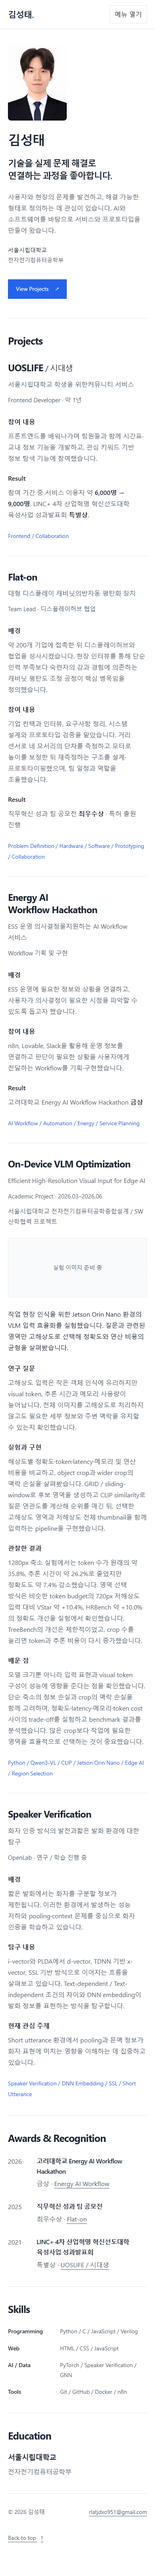
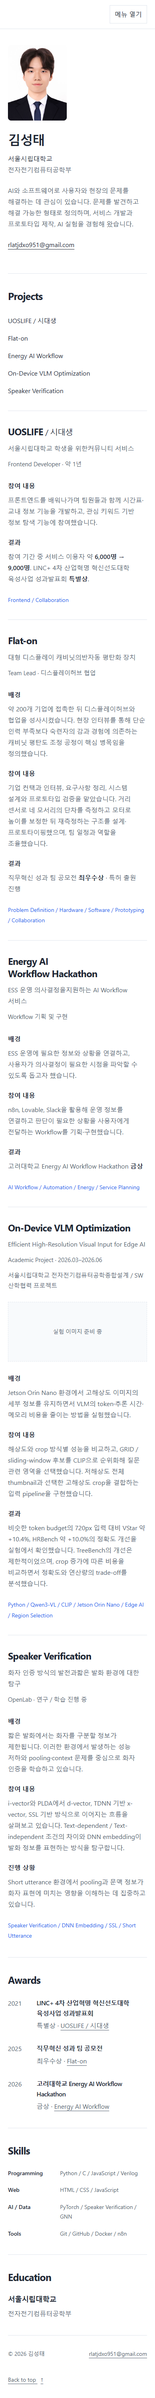
style: simplify introduction and align project summaries with navigation

Changed region(s): [[0.0308, 0.0, 0.9231, 0.9358], [0.0615, 0.9046, 0.3692, 0.9982], [0.8, 0.1872, 0.8308, 0.2184]]

diff --git a/index.html b/index.html
@@ -13,7 +13,6 @@
   <a class="skip-link" href="#main">본문으로 바로가기</a>
   <header class="header">
     <nav class="nav container" aria-label="주요 메뉴">
-      <a class="logo" href="#top" aria-label="김성태, 맨 위로">김성태<span aria-hidden="true">.</span></a>
       <button class="nav-toggle" type="button" aria-expanded="false" aria-controls="nav-menu" hidden>메뉴 열기</button>
       <ul class="nav-list" id="nav-menu">
         <li><a href="#projects">Projects</a></li>
@@ -25,21 +24,27 @@
 
   <main id="main" class="container" tabindex="-1">
     <section class="hero" aria-labelledby="hero-title">
+      <img class="profile-image" src="./images/profile.jpg" alt="김성태 프로필 사진" width="413" height="531" fetchpriority="high" />
       <div class="hero-copy">
         <h1 id="hero-title">김성태</h1>
-        <p class="hero-statement">기술을 실제 문제 해결로<br /> 연결하는 과정을 좋아합니다.</p>
-        <p class="hero-description">사용자와 현장의 문제를 발견하고, 해결 가능한 형태로 정의하는 데 관심이 있습니다. AI와 소프트웨어를 바탕으로 서비스와 프로토타입을 만들어 왔습니다.</p>
         <p class="affiliation">서울시립대학교 <span>전자전기컴퓨터공학부</span></p>
-        <div class="hero-links">
-          <a class="button" href="#projects">View Projects <span aria-hidden="true">↗</span></a>
-        </div>
+        <p class="hero-description">AI와 소프트웨어로 사용자와 현장의 문제를 해결하는 데 관심이 있습니다. 문제를 발견하고 해결 가능한 형태로 정의하며, 서비스 개발과 프로토타입 제작, AI 실험을 경험해 왔습니다.</p>
+        <a class="text-link hero-email" href="mailto:rlatjdxo951@gmail.com">rlatjdxo951@gmail.com</a>
       </div>
-      <img class="profile-image" src="./images/profile.jpg" alt="김성태 프로필 사진" width="413" height="531" fetchpriority="high" />
     </section>
 
     <section class="section" id="projects" aria-labelledby="projects-title" tabindex="-1">
       <h2 id="projects-title">Projects</h2>
-      <article class="project" id="uoslife" aria-labelledby="uoslife-title">
+      <nav class="project-index" aria-label="프로젝트 목차">
+        <ol>
+          <li><a href="#uoslife">UOSLIFE / 시대생</a></li>
+          <li><a href="#flat-on">Flat-on</a></li>
+          <li><a href="#energy-workflow">Energy AI Workflow</a></li>
+          <li><a href="#vlm-optimization">On-Device VLM Optimization</a></li>
+          <li><a href="#speaker-verification">Speaker Verification</a></li>
+        </ol>
+      </nav>
+      <article class="project" id="uoslife" aria-labelledby="uoslife-title" tabindex="-1">
         <header class="project-heading">
           <h3 id="uoslife-title">UOSLIFE <span class="title-secondary">/ 시대생</span></h3>
           <p class="project-summary">서울시립대학교 학생을 위한<br />커뮤니티 서비스</p>
@@ -49,13 +54,13 @@
           <dl class="project-details">
             <dt>참여 내용</dt>
             <dd>프론트엔드를 배워나가며 팀원들과 함께 시간표·교내 정보 기능을 개발하고, 관심 키워드 기반 정보 탐색 기능에 참여했습니다.</dd>
-            <dt>Result</dt>
+            <dt>결과</dt>
             <dd>참여 기간 중 서비스 이용자 약 <strong>6,000명 → 9,000명</strong>. LINC+ 4차 산업혁명 혁신선도대학 육성사업 성과발표회 <strong>특별상</strong>.</dd>
           </dl>
           <p class="keywords" aria-label="핵심 키워드">Frontend / Collaboration</p>
         </div>
       </article>
-      <article class="project" id="flat-on" aria-labelledby="flat-on-title">
+      <article class="project" id="flat-on" aria-labelledby="flat-on-title" tabindex="-1">
         <header class="project-heading">
           <h3 id="flat-on-title">Flat-on</h3>
           <p class="project-summary">대형 디스플레이 캐비닛의<br />반자동 평탄화 장치</p>
@@ -67,13 +72,13 @@
             <dd>약 200개 기업에 접촉한 뒤 디스플레이허브와 협업을 성사시켰습니다. 현장 인터뷰를 통해 단순 인력 부족보다 숙련자의 감과 경험에 의존하는 캐비닛 평탄도 조정 공정이 핵심 병목임을 정의했습니다.</dd>
             <dt>참여 내용</dt>
             <dd>기업 컨택과 인터뷰, 요구사항 정리, 시스템 설계와 프로토타입 검증을 맡았습니다. 거리 센서로 네 모서리의 단차를 측정하고 모터로 높이를 보정한 뒤 재측정하는 구조를 설계·프로토타이핑했으며, 팀 일정과 역할을 조율했습니다.</dd>
-            <dt>Result</dt>
+            <dt>결과</dt>
             <dd>직무혁신 성과 팀 공모전 <strong>최우수상</strong> · 특허 출원 진행</dd>
           </dl>
           <p class="keywords" aria-label="핵심 키워드">Problem Definition / Hardware / Software / Prototyping / Collaboration</p>
         </div>
       </article>
-      <article class="project" id="energy-workflow" aria-labelledby="energy-title">
+      <article class="project" id="energy-workflow" aria-labelledby="energy-title" tabindex="-1">
         <header class="project-heading">
           <h3 id="energy-title">Energy AI<br />Workflow Hackathon</h3>
           <p class="project-summary">ESS 운영 의사결정을<br />지원하는 AI Workflow 서비스</p>
@@ -85,13 +90,13 @@
             <dd>ESS 운영에 필요한 정보와 상황을 연결하고, 사용자가 의사결정이 필요한 시점을 파악할 수 있도록 돕고자 했습니다.</dd>
             <dt>참여 내용</dt>
             <dd>n8n, Lovable, Slack을 활용해 운영 정보를 연결하고 판단이 필요한 상황을 사용자에게 전달하는 Workflow를 기획·구현했습니다.</dd>
-            <dt>Result</dt>
+            <dt>결과</dt>
             <dd>고려대학교 Energy AI Workflow Hackathon <strong>금상</strong></dd>
           </dl>
           <p class="keywords" aria-label="핵심 키워드">AI Workflow / Automation / Energy / Service Planning</p>
         </div>
       </article>
-      <article class="project" id="vlm-optimization" aria-labelledby="vlm-title">
+      <article class="project" id="vlm-optimization" aria-labelledby="vlm-title" tabindex="-1">
         <header class="project-heading">
           <h3 id="vlm-title">On-Device VLM Optimization</h3>
           <p class="project-summary">Efficient High-Resolution Visual Input for Edge AI</p>
@@ -100,21 +105,18 @@
           <div class="image-placeholder" aria-label="프로젝트 이미지 준비 중">실험 이미지 준비 중</div>
         </header>
         <div class="project-body">
-          <p class="project-intro">작업 현장 인식을 위한 Jetson Orin Nano 환경의 VLM 입력 효율화를 실험했습니다. 질문과 관련된 영역만 고해상도로 선택해 정확도와 연산 비용의 균형을 살펴봤습니다.</p>
           <dl class="project-details">
-            <dt>연구 질문</dt>
-            <dd>고해상도 입력은 작은 객체 인식에 유리하지만 visual token, 추론 시간과 메모리 사용량이 늘어납니다. 전체 이미지를 고해상도로 처리하지 않고도 필요한 세부 정보와 주변 맥락을 유지할 수 있는지 확인했습니다.</dd>
-            <dt>실험과 구현</dt>
-            <dd>해상도별 정확도·token·latency·메모리 및 연산 비용을 비교하고, object crop과 wider crop의 맥락 손실을 살펴봤습니다. GRID / sliding-window로 후보 영역을 생성하고 CLIP similarity로 질문 연관도를 계산해 순위를 매긴 뒤, 선택한 고해상도 영역과 저해상도 전체 thumbnail을 함께 입력하는 pipeline을 구현했습니다.</dd>
-            <dt>관찰한 결과</dt>
-            <dd>1280px 축소 실험에서는 token 수가 원래의 약 35.8%, 추론 시간이 약 26.2%로 줄었지만 정확도도 약 7.4% 감소했습니다. 영역 선택 방식은 비슷한 token budget의 720px 저해상도 입력 대비 VStar 약 +10.4%, HRBench 약 +10.0%의 정확도 개선을 실험에서 확인했습니다. TreeBench의 개선은 제한적이었고, crop 수를 늘리면 token과 추론 비용이 다시 증가했습니다.</dd>
-            <dt>배운 점</dt>
-            <dd>모델 크기뿐 아니라 입력 표현과 visual token 구성이 성능에 영향을 준다는 점을 확인했습니다. 단순 축소의 정보 손실과 crop의 맥락 손실을 함께 고려하며, 정확도·latency·메모리·token cost 사이의 trade-off를 실험하고 benchmark 결과를 분석했습니다. 많은 crop보다 작업에 필요한 영역을 효율적으로 선택하는 것이 중요했습니다.</dd>
+            <dt>배경</dt>
+            <dd>Jetson Orin Nano 환경에서 고해상도 이미지의 세부 정보를 유지하면서 VLM의 token·추론 시간·메모리 비용을 줄이는 방법을 실험했습니다.</dd>
+            <dt>참여 내용</dt>
+            <dd>해상도와 crop 방식별 성능을 비교하고, GRID / sliding-window 후보를 CLIP으로 순위화해 질문 관련 영역을 선택했습니다. 저해상도 전체 thumbnail과 선택한 고해상도 crop을 결합하는 입력 pipeline을 구현했습니다.</dd>
+            <dt>결과</dt>
+            <dd>비슷한 token budget의 720px 입력 대비 VStar 약 +10.4%, HRBench 약 +10.0%의 정확도 개선을 실험에서 확인했습니다. TreeBench의 개선은 제한적이었으며, crop 증가에 따른 비용을 비교하면서 정확도와 연산량의 trade-off를 분석했습니다.</dd>
           </dl>
           <p class="keywords" aria-label="사용 기술과 환경">Python / Qwen3-VL / CLIP / Jetson Orin Nano / Edge AI / Region Selection</p>
         </div>
       </article>
-      <article class="project" id="speaker-verification" aria-labelledby="speaker-title">
+      <article class="project" id="speaker-verification" aria-labelledby="speaker-title" tabindex="-1">
         <header class="project-heading">
           <h3 id="speaker-title">Speaker Verification</h3>
           <p class="project-summary">화자 인증 방식의 발전과<br />짧은 발화 환경에 대한 탐구</p>
@@ -124,9 +126,9 @@
           <dl class="project-details">
             <dt>배경</dt>
             <dd>짧은 발화에서는 화자를 구분할 정보가 제한됩니다. 이러한 환경에서 발생하는 성능 저하와 pooling·context 문제를 중심으로 화자 인증을 학습하고 있습니다.</dd>
-            <dt>탐구 내용</dt>
+            <dt>참여 내용</dt>
             <dd>i-vector와 PLDA에서 d-vector, TDNN 기반 x-vector, SSL 기반 방식으로 이어지는 흐름을 살펴보고 있습니다. Text-dependent / Text-independent 조건의 차이와 DNN embedding이 발화 정보를 표현하는 방식을 탐구합니다.</dd>
-            <dt>현재 관심 주제</dt>
+            <dt>진행 상황</dt>
             <dd>Short utterance 환경에서 pooling과 문맥 정보가 화자 표현에 미치는 영향을 이해하는 데 집중하고 있습니다.</dd>
           </dl>
           <p class="keywords" aria-label="핵심 키워드">Speaker Verification / DNN Embedding / SSL / Short Utterance</p>
@@ -135,11 +137,11 @@
     </section>
 
     <section class="section resume-section" id="awards" aria-labelledby="awards-title" tabindex="-1">
-      <h2 id="awards-title">Awards &amp;<br /> Recognition</h2>
+      <h2 id="awards-title">Awards</h2>
       <ol class="award-list resume-content">
-        <li><time datetime="2026">2026</time><div><h3>고려대학교 Energy AI Workflow Hackathon</h3><p>금상 · <a href="#energy-workflow">Energy AI Workflow</a></p></div></li>
-        <li><time datetime="2025">2025</time><div><h3>직무혁신 성과 팀 공모전</h3><p>최우수상 · <a href="#flat-on">Flat-on</a></p></div></li>
         <li><time datetime="2021">2021</time><div><h3>LINC+ 4차 산업혁명 혁신선도대학 육성사업 성과발표회</h3><p>특별상 · <a href="#uoslife">UOSLIFE / 시대생</a></p></div></li>
+        <li><time datetime="2025">2025</time><div><h3>직무혁신 성과 팀 공모전</h3><p>최우수상 · <a href="#flat-on">Flat-on</a></p></div></li>
+        <li><time datetime="2026">2026</time><div><h3>고려대학교 Energy AI Workflow Hackathon</h3><p>금상 · <a href="#energy-workflow">Energy AI Workflow</a></p></div></li>
       </ol>
     </section>
 

diff --git a/css/style.css b/css/style.css
@@ -16,7 +16,7 @@ html { scroll-behavior: smooth; }
 body { margin: 0; }
 ::selection { background: #dbeafe; }
 a { color: inherit; text-decoration-thickness: 1px; text-underline-offset: 5px; }
-a:hover { color: var(--accent); }
+a:hover { text-decoration: underline; }
 button { font: inherit; }
 a:focus-visible, button:focus-visible { outline: 2px solid var(--accent); outline-offset: 5px; }
 [tabindex="-1"]:focus { outline: none; }
@@ -27,23 +27,17 @@ p, dd, h3 { word-break: keep-all; overflow-wrap: anywhere; }
 .skip-link { position: fixed; top: 12px; left: 12px; z-index: 20; padding: 12px 20px; background: var(--text); color: white; transform: translateY(-180%); }
 .skip-link:focus { transform: translateY(0); color: white; }
 .header { position: sticky; top: 0; z-index: 10; background: var(--background); border-bottom: 1px solid var(--border); }
-.nav { display: flex; align-items: center; justify-content: space-between; min-height: 84px; gap: 24px; }
-.logo { text-decoration: none; font-size: 21px; font-weight: 750; letter-spacing: -0.05em; white-space: nowrap; }
-.logo span { color: var(--accent); }
+.nav { display: flex; align-items: center; justify-content: flex-end; min-height: 72px; gap: 24px; }
 .nav-list { list-style: none; display: flex; gap: 28px; padding: 0; margin: 0; }
 .nav-list a { display: block; padding-block: 12px; text-decoration: none; font-size: 14px; }
 .nav-list a:hover { text-decoration: underline; }
 .nav-toggle { display: none; border: 1px solid var(--border); background: transparent; color: var(--text); padding: 8px 12px; min-height: 44px; cursor: pointer; }
-.hero { display: grid; grid-template-columns: minmax(0, 1fr) 240px; align-items: center; gap: 72px; padding-block: 80px; }
+.hero { display: grid; grid-template-columns: 200px minmax(0, 1fr); align-items: center; gap: 72px; padding-block: 80px; }
 .profile-image { display: block; width: 100%; height: auto; border-radius: 8px; }
-h1 { font-size: clamp(2rem, 4vw, 2.75rem); margin-bottom: 22px; letter-spacing: -0.04em; }
-.hero-statement { font-size: clamp(1.35rem, 2.5vw, 1.9rem); line-height: 1.45; letter-spacing: -0.045em; font-weight: 550; }
+h1 { font-size: clamp(2rem, 4vw, 2.75rem); margin-bottom: 12px; letter-spacing: -0.04em; }
 .hero-description { color: var(--muted); max-width: 600px; margin-top: 24px; }
-.affiliation { margin-top: 24px; font-size: 14px; }
+.affiliation { font-size: 16px; }
 .affiliation span { color: var(--muted); margin-left: 12px; }
-.hero-links { display: flex; align-items: center; flex-wrap: wrap; gap: 28px; margin-top: 36px; }
-.button { display: inline-flex; gap: 28px; align-items: center; padding: 12px 20px; background: var(--accent); color: white; text-decoration: none; font-size: 14px; }
-.button:hover { background: #1d4ed8; color: white; }
 .text-link { display: inline-block; padding-block: 10px; font-size: 14px; }
 .text-link span { margin-left: 8px; }
 .section { border-top: 1px solid var(--border); padding-block: 64px; }
@@ -79,7 +73,7 @@ h2 { font-size: 28px; font-weight: 650; }
   .container { width: calc(100% - 64px); }
   .project, .resume-section { gap: 40px; grid-template-columns: minmax(0, 0.8fr) minmax(0, 1.2fr); }
   .nav-list { gap: 20px; }
-  .hero { gap: 36px; grid-template-columns: minmax(0, 1fr) 190px; }
+  .hero { gap: 36px; grid-template-columns: 170px minmax(0, 1fr); }
   .skill-list > div { grid-template-columns: 1fr; gap: 4px; }
 }
 @media (max-width: 767px) {
@@ -94,8 +88,6 @@ h2 { font-size: 28px; font-weight: 650; }
   .profile-image { width: 148px; grid-row: 1; }
   .hero-description { font-size: 16px; }
   .affiliation span { display: block; margin-left: 0; }
-  .hero-links { gap: 22px; }
-  .button { gap: 16px; }
   .section { padding-block: 40px; }
   h2 { font-size: 25px; }
   .project, .resume-section { grid-template-columns: minmax(0, 1fr); gap: 28px; }
@@ -103,17 +95,11 @@ h2 { font-size: 28px; font-weight: 650; }
   .project h3 { font-size: 24px; }
   .project-summary { margin-block: 12px; }
   .project-summary br { display: none; }
-  .resume-section h2 br { display: none; }
   .skill-list > div { grid-template-columns: 115px minmax(0, 1fr); gap: 16px; }
-}
-@media (hover: hover) and (prefers-reduced-motion: no-preference) {
-  .button, .profile-image, .project h3 { transition: transform 180ms ease, color 180ms ease; }
-  .button:hover, .profile-image:hover { transform: translateY(-3px); }
-  .project:hover h3 { transform: translateX(3px); color: var(--accent); }
 }
 @media (prefers-reduced-motion: reduce) { html { scroll-behavior: auto; } }
 @media print {
-  .header, .skip-link, .hero-links, .footer { display: none; }
+  .header, .skip-link, .project-index, .footer { display: none; }
   :root { background: white; color: black; }
   .container { width: 100%; }
   .hero, .section { padding-block: 24px; }
@@ -123,5 +109,13 @@ h2 { font-size: 28px; font-weight: 650; }
 
 .meta { color: var(--muted); font-size: 15px; }
 .project-affiliation { margin-top: 12px; }
-.project-intro { margin-bottom: 24px; }
 .image-placeholder { display: grid; place-items: center; min-height: 150px; border: 1px dashed var(--border); color: var(--muted); background: #f8fafc; margin-top: 28px; font-size: 14px; }
+
+.hero-email { margin-top: 14px; font-size: 16px; }
+.project-index { margin-top: 24px; padding-bottom: 28px; border-bottom: 1px solid var(--border); }
+.project-index ol { display: flex; flex-wrap: wrap; gap: 8px 32px; list-style: none; margin: 0; padding: 0; }
+.project-index a { display: inline-block; padding-block: 8px; text-decoration: none; }
+.project-index a:hover { text-decoration: underline; }
+@media (max-width: 767px) {
+  .project-index ol { display: block; }
+}
